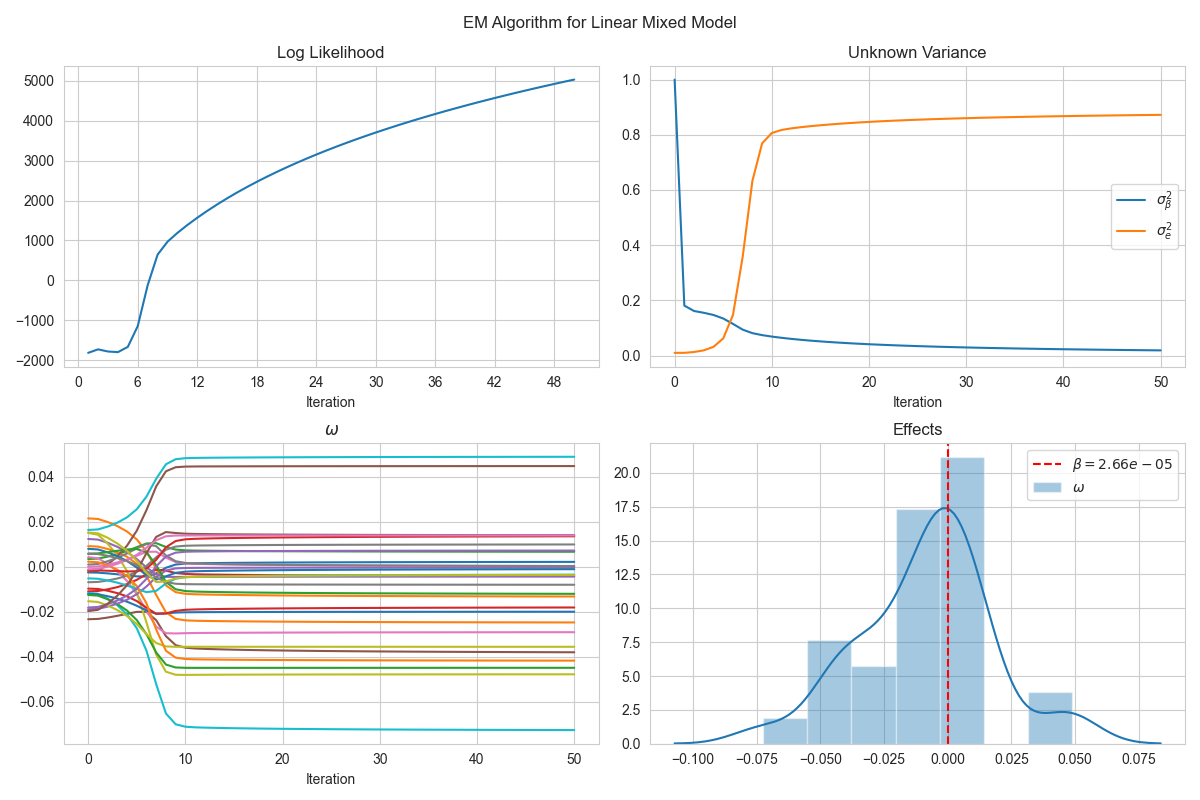
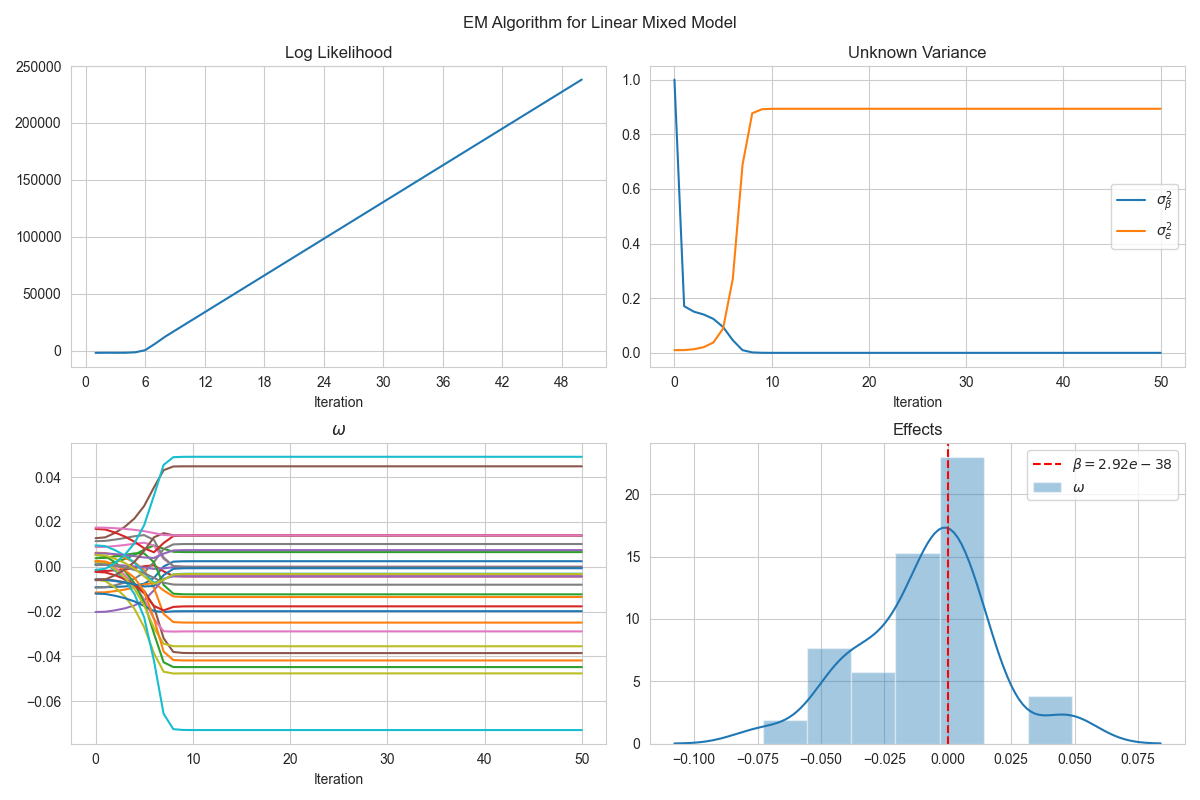
update in EM doc: cal likelihood, sigma_beta^2.

diff --git a/lmm_em.py b/lmm_em.py
@@ -97,7 +97,7 @@ def lmm_em(y, X, Z, tol=1e-6, max_iter=10, verbose=True):
 
         # M step
         omega = ZTZinvZT @ (y - X @ beta)
-        sigma_beta2 = np.trace(Gamma)/n + np.linalg.norm(beta)**2 / p
+        sigma_beta2 = np.trace(Gamma)/p + np.linalg.norm(beta)**2 / p
         # sigma_beta2 = (np.trace(Gamma) + np.linalg.norm(beta)**2) / p
         sigma_e2 = (np.linalg.norm(y - Z @ omega)**2 + np.trace(Gamma @ XXT) +
                     np.linalg.norm(X @ beta)**2 - 2 *

diff --git a/lmm_em.md b/lmm_em.md
@@ -13,7 +13,7 @@
   - [Codes and Results](#codes-and-results)
     - [Codes](#codes)
     - [Results](#results)
-  - [TODO: Acceleration:](#todo-acceleration)
+  - [TODO:](#todo)
   - [References](#references)
 
 ## Model Description
@@ -39,12 +39,11 @@ Let $\mathbf{\Theta}$ denote the set of unknown parameters $\mathbf{\Theta} = \{
 </figure>
 </p>
 
-The EM algorithm is an iterative algorithm that alternates between the E-step and the M-step until convergence. In the following sections, we will first find the posterior distribution of $\mathbf{\beta}$ given $\mathbf{y}$ and $\hat{\mathbf{\Theta}}$ in the E-step and calculate the $Q$ function. Then we will  find the ML estimator of $\mathbf{\Theta}$ which is used in M-step.  Finally, we will calculate and track the complete data log-likelihood $\ell(\mathbf{\Theta})$ to check the convergence of the algorithm.
+The EM algorithm is an iterative algorithm that alternates between the E-step and the M-step until convergence. In the following sections, we will first find the posterior distribution of $\mathbf{\beta}$ given $\mathbf{y}$ and $\hat{\mathbf{\Theta}}$ in the E-step and calculate the $Q$ function. Then we will  find the ML estimator of $\mathbf{\Theta}$ which is used in M-step.  Finally, we will calculate and track the marginal data log-likelihood $\ell(\mathbf{\Theta})$ to check the convergence of the algorithm.
 
 
 ## Statistical Inference in LMM
 <!-- Question: Can we use $\mathbf{y}-\mathbf{Z}\mathbf{\omega}| \mathbf{\Theta}, \mathbf{\beta} \sim \mathcal{N}(\mathbf{X}\mathbf{\beta}, \sigma_\beta^2\mathbf{X}\mathbf{X}^T + \sigma_e^2\mathbf{I}_n)$?[^1] The following derivation are based on Ref 1. -->
-
 <!-- [^1]: If so, $\omega = (\mathbf{Z}^T\Sigma^{-1} \mathbf{Z})^{-1} \mathbf{Z}^T\Sigma^{-1} \mathbf{y}$, where $\Sigma = \sigma_\beta^2\mathbf{X}\mathbf{X}^T + \sigma_e^2\mathbf{I}_n$. And $\mathbf{\beta}= \sigma_\beta^2\mathbf{X}^T\Sigma^{-1} (\mathbf{y}-\mathbf{Z}\mathbf{\omega})$, $\mathbb{V}(\mathbf{\omega})= (\mathbf{Z}\Sigma^{-1}\mathbf{X})^{-1}$, $\mathbb{V}(\mathbf{\beta})=\sigma_\beta^4 \mathbf{X}^T {\Sigma^{-1}-\Sigma^{-1}\mathbf{Z}(\mathbf{Z}\Sigma^{-1}\mathbf{Z})^{-1}\mathbf{Z}^T\Sigma^{-1}}\mathbf{X}$. More details in Ref 2 and 3. -->
 
 ### Complete Data Log-Likelihood
@@ -60,7 +59,7 @@ $$\begin{equation}
 
 ### Statistical Inference in E-Step
 
-The E-step is to compute the expectation of the complete data log-likelihood with respect to the conditional distribution of $\mathbf{\beta}$ given $\mathbf{y}$ and $\Theta$:
+The E-step is to compute the expectation of the marginal data log-likelihood with respect to the conditional distribution of $\mathbf{\beta}$ given $\mathbf{y}$ and $\Theta$:
 $$\begin{equation}
 \begin{split}
 Q(\Theta|\Theta^{\text{old}}) &= \mathbb{E}_{\mathbf{\beta}|\mathbf{y}, \Theta^{\text{old}}} \left[ \log p(\mathbf{y}, \mathbf{\beta}|\Theta) \right]
@@ -118,7 +117,7 @@ $$\begin{equation}
 
 where $\mathbf{\Gamma} = \left(\frac{\mathbf{X}^T \mathbf{X}}{\sigma_e^2} + \frac{\mathbf{I}_p}{\sigma_\mathbf{\beta}^2} \right)^{-1}$ and $\mathbf{\mu} = \mathbf{\Gamma} \mathbf{X}^T (\mathbf{y}-\mathbf{Z}\mathbf{\omega})/\sigma_e^2$.
 
-The M-step is to maximize the expectation of the complete data log-likelihood with respect to $\mathbf{\Theta}$:
+The M-step is to maximize the expectation of the marginal data log-likelihood with respect to $\mathbf{\Theta}$:
 $$\begin{equation}
 \mathbf{\Theta} = \arg\max_\mathbf{\Theta} Q(\mathbf{\Theta}|\mathbf{\Theta}^{\text{old}})
 \end{equation}$$
@@ -129,24 +128,14 @@ $$\begin{equation}
 \hat{\mathbf{\sigma}}_\beta^{2} &= \frac{1}{p} \left(\text{tr}(\mathbf{\Gamma}) + \| \mathbf{\beta}\|^2 \right)\\
 \hat{\mathbf{\sigma}}_e^{2} &= \frac{1}{n}\left( \|\mathbf{y}-\mathbf{Z}\hat{\mathbf{\omega}}\|^2 + \text{tr}\left(\mathbf{\Gamma}\mathbf{X}^T\mathbf{X}\right)+ \|\mathbf{X}\mathbf{\beta} \|^2 - 2(\mathbf{y}-\mathbf{Z}\hat{\mathbf{\omega}})^T \mathbf{X}\mathbf{\beta}\right)
 \end{split}\end{equation}$$
-Then the complete data log-likelihood is given by
-$$\begin{equation}
-\begin{split}
-\ell(\mathbf{\Theta}, \mathbf{\beta}) &= \log p(\mathbf{y}, \mathbf{\beta}| \mathbf{\Theta})\\
-&= \log p(\mathbf{y}| \mathbf{\beta}, \mathbf{\Theta}) + \log p(\mathbf{\beta}| \mathbf{\Theta})\\
-&= -\frac{n+p}{2} \log (2\pi) -\frac{n}{2} \log \hat{\sigma}_e^2\\
-&\quad  - \frac{1}{2\hat{\sigma}_e^2} \|\mathbf{y} - \mathbf{Z}\hat{\mathbf{\omega}} - \mathbf{X}\mathbf{\beta}\|^2-\frac{p}{2} \log \hat{\sigma}_\beta^2 - \frac{1}{2\hat{\sigma}_\beta^2} \mathbf{\beta}^T \mathbf{\beta}
-\end{split}\end{equation}$$
 
-------
-Let $\Sigma = \sigma_\mathbf{\beta}^2 \mathbf{X}\mathbf{X}^T + \sigma_e^2 \mathbf{I}_n$ be the covariance matrix of $\mathbf{y}$, then the conditional distribution of $\mathbf{y}|\Theta$ is $\mathcal{N}(\mathbf{Z}\mathbf{\omega} + \mathbf{X}\mathbf{\beta}, \Sigma)$. The complete data log-likelihood is given by
+Let $\Sigma = \sigma_\mathbf{\beta}^2 \mathbf{X}\mathbf{X}^T + \sigma_e^2 \mathbf{I}_n$ be the covariance matrix of $\mathbf{y}$, then the conditional distribution of $\mathbf{y}|\Theta$ is $\mathcal{N}(\mathbf{Z}\mathbf{\omega}, \Sigma)$. The marginal data log-likelihood is given by
 $$\begin{equation}
 \begin{split}
 \log p(\mathbf{y}| \Theta) &= -\frac{n}{2} \log(2\pi)-\frac{1}{2} \log |\Sigma|\\
-&\quad - \frac{1}{2} (\mathbf{y} - \mathbf{Z}\mathbf{\omega}-\mathbf{X}\mathbf{\beta})^T \Sigma^{-1} (\mathbf{y} - \mathbf{Z}\mathbf{\omega}-\mathbf{X}\mathbf{\beta})
+&\quad - \frac{1}{2} (\mathbf{y} - \mathbf{Z}\mathbf{\omega})^T \Sigma^{-1} (\mathbf{y} - \mathbf{Z}\mathbf{\omega})
 \end{split}\end{equation}$$
 
-------
 
 When $|\Delta \ell| = |\ell(\mathbf{\Theta}, \mathbf{\beta}) - \ell(\mathbf{\Theta}^{\text{old}}, \mathbf{\beta})| < \varepsilon$, where $\varepsilon$ is a small number, the algorithm is considered to be converged.
 
@@ -184,10 +173,10 @@ $$\begin{equation}
 \begin{split}
 \tilde{\mathbf{\mu}} &=  \mathbf{X}^T \tilde{\mathbf{\Gamma}} (\mathbf{y}-\mathbf{Z}\mathbf{\omega}) /\sigma_e^2\\
 \hat{\mathbf{\omega}} &= (\mathbf{Z}^T \mathbf{Z})^{-1} \mathbf{Z}^T (\mathbf{y} - \mathbf{X}\tilde{\mathbf{\mu}})\\
-\hat{\mathbf{\sigma}}_\beta^{2} &= \frac{1}{p} \left(\text{tr}(\tilde{\mathbf{\Gamma}}) + \|\tilde{\mathbf{\mu}}\|^2 \right)\\
+\hat{\mathbf{\sigma}}_\beta^{2} &= \frac{1}{p} \left(\text{tr}(\tilde{\mathbf{\Gamma}}) + \|\tilde{\mathbf{\mu}}\|^2+(n-p)\sigma_\mathbf{\beta}^2 \right)\\
 \hat{\mathbf{\sigma}}_e^{2} &= \frac{1}{n}\left( \|\mathbf{y}-\mathbf{Z}\hat{\mathbf{\omega}}\|^2 + \text{tr}\left(\mathbf{X}\mathbf{X}^T\tilde{\mathbf{\Gamma}}\right)+ \|\mathbf{X}\tilde{\mathbf{\mu}} \|^2 - 2(\mathbf{y}-\mathbf{Z}\hat{\mathbf{\omega}})^T \mathbf{X}\tilde{\mathbf{\mu}}\right)
 \end{split}\end{equation}$$
-
+<!--! \sigma_\mathbf{\beta}^2 ????????  -->
 
 #### Eigenvalue decomposition
 Since we need to calculate the inverse in $\mathbf{\Gamma}$ each iteration. When $p$ is large and the elements of $\mathbf{X}$ are small, the inverse of $\mathbf{X} \mathbf{X}^T$ may be ill-conditioned. Therefore, we use the eigenvalue decomposition of $\mathbf{X} \mathbf{X}^T$ to accelerate the calculation of $\mathbf{\Gamma}$.
@@ -199,6 +188,20 @@ $$\begin{equation}
 \end{equation}$$
 
 where $\left(\frac{\mathbf{\Lambda}}{\sigma_e^2} + \frac{\mathbf{I}_n}{\sigma_\mathbf{\beta}^2} \right)^{-1}$ is a diagonal matrix which is easy to calculate the inverse.
+
+We can not calculate the $\log |\mathbf{\Sigma}|$ in likelihood directly since it would cause numerical overflow[^2]. Instead, we use the eigenvalue decomposition above to calculate the log determinant of $\mathbf{\Sigma}$. Let $\mathbf{\Lambda} = \text{diag} \{\lambda_1, \dots, \lambda_n\}$, we have
+$$\begin{equation}
+\begin{split}
+\log |\Sigma| &= \log |\sigma_\mathbf{\beta}^2 \mathbf{X}\mathbf{X}^T + \sigma_e^2 \mathbf{I}_n|\\
+&= \sum_{i=1}^n \log (\sigma_\mathbf{\beta}^2 \lambda_i + \sigma_e^2)\\
+&= \log \text{tr}\left(\sigma_\mathbf{\beta}^2\mathbf{\Lambda} + \sigma_e^2 \mathbf{I}_n\right) \\
+\Sigma^{-1} &= \left(\sigma_\mathbf{\beta}^2 \mathbf{X}\mathbf{X}^T + \sigma_e^2 \mathbf{I}_n\right)^{-1}\\
+&= \left(\sigma_\mathbf{\beta}^2 \mathbf{Q} \mathbf{\Lambda} \mathbf{Q}^T + \sigma_e^2 \mathbf{I}_n\right)^{-1}\\
+&= \mathbf{Q} \left(\sigma_\mathbf{\beta}^2 \mathbf{\Lambda} + \sigma_e^2 \mathbf{I}_n\right)^{-1} \mathbf{Q}^T\\
+&= \frac{1} {\sigma_\mathbf{\beta}^2\sigma_e^2} \mathbf{Q} \tilde{\mathbf{\Gamma}} \mathbf{Q}^T
+\end{split}\end{equation}$$
+
+[^2]: $\log |\mathbf{\Sigma}|$: Directly calculate the log determinant of $\mathbf{\Sigma}$ would cause numerical overflow:```RuntimeWarning: overflow encountered in reduce return ufunc.reduce(obj, axis, dtype, out, **passkwargs)``` That's because "If an array has a very small or very large determinant, then a call to `det` may overflow or underflow". When the dimension of $\mathbf{\Sigma}$ is large, $|\mathbf{\Sigma}|$ would be extremely close to zero so that it may be considered as zero by numpy. Therefore, we use $\log |\mathbf{\Sigma}| = \sum_{i=1}^n \log \lambda_i$, where $\lambda_i$ is the $i$-th eigenvalue of $\mathbf{\Sigma}$.
 
 When calculating the eigenvalue decomposition, it's better to use '[numpy.linalg.eigh](https://numpy.org/doc/stable/reference/generated/numpy.linalg.eigh.html)' instead of '[numpy.linalg.eig](https://numpy.org/doc/stable/reference/generated/numpy.linalg.eig.html)' since $\tilde{\mathbf{\Gamma}}$ is a real symmetric matrix. The former is faster and more accurate than the latter.
 
@@ -217,7 +220,11 @@ The results below are obtained by running the EM algorithm on a generated datase
 The results in [code](https://lucajiang.github.io/Mixed-Effect-Model-Numerical-Algorithm/em_result) are obtained by running the EM algorithm on a given dataset.
 
 
-## TODO: Acceleration:
+## TODO: 
+model:
+1. n>=p and p>n: algo and pseudo code
+
+Acceleration: 
 1. Aitken acceleration
 2. numba
 
